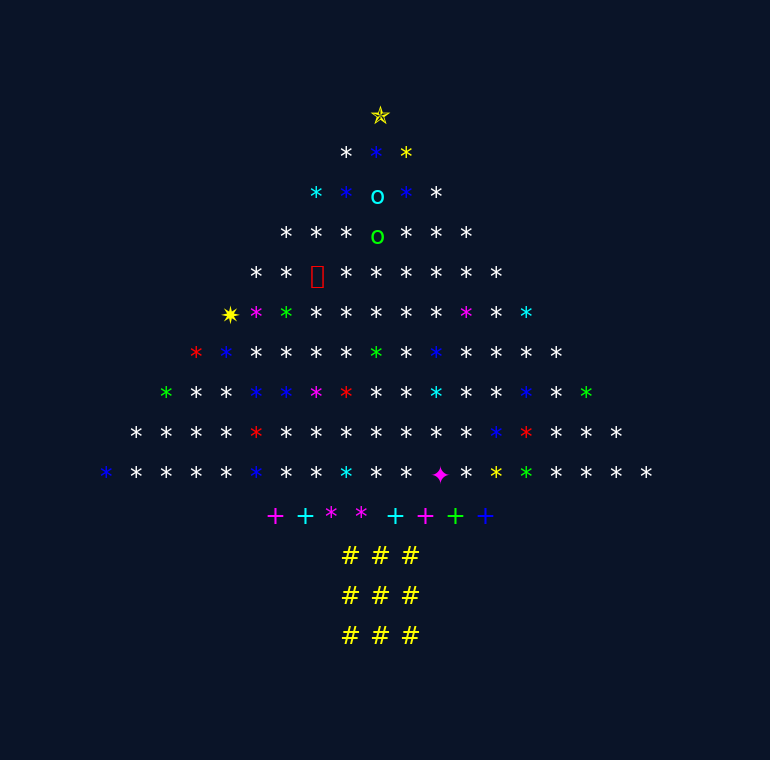
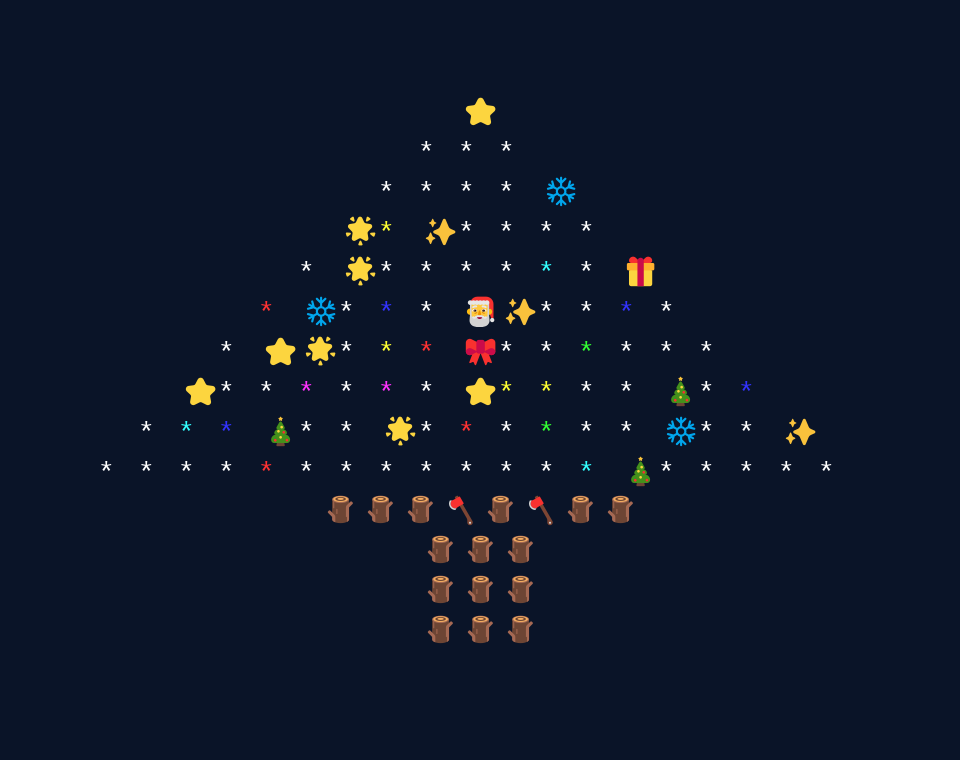
emojis
emojis

diff --git a/TreeGenerator.py b/TreeGenerator.py
@@ -2,7 +2,6 @@ import os
 import random
 import pygame
 import sys
-
 from typing import List, Tuple
 
 
@@ -125,11 +124,11 @@ def try_generate_tree():
         print(f"Error: {e}")
         print("Please enter a valid positive number for height.")
 
-    main_menu()
+    #main_menu()
 
 def generate_tree(height: int, symbol: str = '*') -> List[Tuple[str, List[Tuple[str, str]]]]:
     """
-    Generate and display a Christmas tree in the console.
+    Generate and display a Christmas tree in the console using emojis and Unicode decorations.
     Returns the tree pattern for potential PNG conversion.
     """
     # ANSI color codes
@@ -145,8 +144,8 @@ def generate_tree(height: int, symbol: str = '*') -> List[Tuple[str, List[Tuple[
     white = '\033[37m'    # White color
     reset = '\033[0m'     # Reset color code
     
-    # Non-emoji decorations (more reliable for PNG output)
-    decorations = ['*', '+', 'o', '°', '⚹', '✦', '✯', '✷']
+    # Emoji decorations
+    decorations = ['🎄', '🎁', '⭐', '✨', '🎀', '🌟', '❄', '🎅']
     
     # Store tree pattern for PNG conversion
     tree_pattern = []
@@ -161,19 +160,17 @@ def generate_tree(height: int, symbol: str = '*') -> List[Tuple[str, List[Tuple[
         
         # Handle the first row (top of tree) specially
         if i == 0:
-            color = staryellow
-            row.append(f"{color}✯{reset}")
-            pattern_row.append(('✯', color))
+            row.append(f"{staryellow}⭐{reset}")
+            pattern_row.append(('⭐', staryellow))
         else:
             # Generate other rows
             for j in range(2 * i + 1):
                 decoration_chance = random.random()
-                if decoration_chance < 0.1:  # 10% chance for decoration
-                    color = random.choice(colors)
+                if decoration_chance < 0.2:  # 20% chance for emoji decoration
                     decoration = random.choice(decorations)
-                    row.append(f"{color}{decoration}{reset}")
-                    pattern_row.append((decoration, color))
-                elif decoration_chance < 0.3:  # 20% chance for colored symbol
+                    row.append(decoration)
+                    pattern_row.append((decoration, ''))
+                elif decoration_chance < 0.4:  # 20% chance for colored symbol
                     color = random.choice(colors)
                     row.append(f"{color}{symbol}{reset}")
                     pattern_row.append((symbol, color))
@@ -185,102 +182,128 @@ def generate_tree(height: int, symbol: str = '*') -> List[Tuple[str, List[Tuple[
         print(f"{spaces}{''.join(row)}")
         tree_pattern.append((spaces, pattern_row))
     
-    # Add a simple decorative base (using stars and plus signs)
+    # Add a simple decorative base
     base_width = min(2 * (height - 1) + 1, 8)
-    base_pattern = []
-    for i in range(base_width):
-        color = random.choice(colors)
-        symbol = random.choice(['*', '+', '✦'])
-        base_pattern.append((symbol, color))
+    base_pattern = [(random.choice(['🪵', '🪓']), '') for _ in range(base_width)]
     
     # Center the base
     base_space = " " * (height - len(base_pattern)//2 - 1)
     base_row = []
-    for symbol, color in base_pattern:
-        base_row.append(f"{color}{symbol}{reset}")
+    for symbol, _ in base_pattern:
+        base_row.append(symbol)
     print(base_space + "".join(base_row))
     tree_pattern.append((base_space, base_pattern))
     
     # Add the trunk
     trunk_height = height // 3
     trunk_width = height // 3
-    brown = '\033[33m'  # Brown color for trunk
     for i in range(trunk_height):
         trunk_space = " " * (height - trunk_width // 2 - 1)
-        trunk_row = []
-        pattern_trunk = []
-        for j in range(trunk_width):
-            trunk_row.append(f"{brown}#{reset}")
-            pattern_trunk.append(('#', brown))
+        trunk_row = ['🪵'] * trunk_width
         print(trunk_space + "".join(trunk_row))
-        tree_pattern.append((trunk_space, pattern_trunk))
+        tree_pattern.append((trunk_space, [(char, '') for char in trunk_row]))
     
     return tree_pattern
 
-def save_as_png(tree_pattern: List[Tuple[str, List[Tuple[str, str]]]], height: int, filename: str = 'christmas_tree.png') -> bool:
-    """
-    Save the tree pattern as a PNG file with proper centering.
-    """
-    try:
-        from PIL import Image, ImageDraw, ImageFont
-    except ImportError:
-        print("Error: Pillow library not installed. Please install it using:")
-        print("pip install Pillow")
-        return False
 
-    # Image dimensions with padding
-    char_width = 30  # Increased for better spacing
+def save_as_png(tree_pattern, height, filename='christmas_tree.png'):
+    from PIL import Image, ImageDraw, ImageFont
+    import platform
+    
+    # Set dimensions
+    char_width = 40  # Increased for emoji visibility
     char_height = 40
-    padding = 100  # Additional padding around the tree
-    
-    # Calculate maximum tree width
-    max_tree_width = max(len(pattern_row) for _, pattern_row in tree_pattern) * char_width
-    
-    # Set image dimensions with padding
-    img_width = max_tree_width + (2 * padding)
+    padding = 100
+    img_width = (max(len(row[1]) for row in tree_pattern) * char_width) + (2 * padding)
     img_height = (len(tree_pattern) * char_height) + (2 * padding)
-    
-    # Create image with dark blue background
+
+    # Create the image with a dark background
     image = Image.new('RGB', (img_width, img_height), (10, 20, 40))
     draw = ImageDraw.Draw(image)
-    
-    # Try to load a font that supports decorative characters
+
+    # Try to find and load a system emoji font
     try:
-        font = ImageFont.truetype("/usr/share/fonts/truetype/dejavu/DejaVuSans.ttf", 25)
-    except:
-        try:
-            font = ImageFont.truetype("arial.ttf", 25)
-        except:
-            font = ImageFont.load_default()
-    
-    # Color mapping from ANSI to RGB
+        if platform.system() == 'Windows':
+            possible_fonts = [
+                "seguiemj.ttf",  # Segoe UI Emoji
+                "segoe ui emoji.ttf",
+                "C:\\Windows\\Fonts\\seguiemj.ttf"
+            ]
+        elif platform.system() == 'Darwin':  # macOS
+            possible_fonts = [
+                "/System/Library/Fonts/Apple Color Emoji.ttc",
+                "/System/Library/Fonts/AppleColorEmoji.ttf"
+            ]
+        else:  # Linux
+            possible_fonts = [
+                "/usr/share/fonts/truetype/noto/NotoColorEmoji.ttf",
+                "/usr/share/fonts/noto-emoji/NotoColorEmoji.ttf",
+                "/usr/share/fonts/google-noto/NotoColorEmoji.ttf",
+                "/usr/share/fonts/emoji/NotoColorEmoji.ttf"
+            ]
+
+        font = None
+        for font_path in possible_fonts:
+            try:
+                font = ImageFont.truetype(font_path, 30)
+                print(f"Successfully loaded emoji font: {font_path}")
+                break
+            except OSError:
+                continue
+
+        if font is None:
+            raise Exception("No emoji font found")
+
+    except Exception as e:
+        print(f"Warning - font loading issue: {e}")
+        print("Attempting to use system default font...")
+        font = ImageFont.load_default()
+
+    # Define colors
     color_map = {
-        '\033[31m': (255, 0, 0),     # Red
-        '\033[32m': (0, 255, 0),     # Green
-        '\033[33m': (255, 255, 0),   # Yellow
-        '\033[34m': (0, 0, 255),     # Blue
-        '\033[35m': (255, 0, 255),   # Purple
-        '\033[36m': (0, 255, 255),   # Cyan
-        '\033[37m': (255, 255, 255), # White
+        '\033[31m': (255, 50, 50),    # Red
+        '\033[32m': (50, 255, 50),    # Green
+        '\033[33m': (255, 255, 50),   # Yellow
+        '\033[34m': (50, 50, 255),    # Blue
+        '\033[35m': (255, 50, 255),   # Purple
+        '\033[36m': (50, 255, 255),   # Cyan
+        '\033[37m': (255, 255, 255),  # White
     }
-    
-    # Draw tree centered
-    y = padding  # Start with vertical padding
-    for spaces, row in tree_pattern:
-        # Calculate x position to center the row
-        row_width = len(row) * char_width
-        x = (img_width - row_width) // 2
-        
-        for char, color in row:
-            # Draw the character
-            draw.text((x, y), char, font=font, fill=color_map[color])
-            x += char_width
-        y += char_height
-    
-    # Save image
-    image.save(filename)
-    print(f"Tree saved as {filename}")
-    return True
+
+    # Draw tree
+    y = padding
+    try:
+        for spaces, row in tree_pattern:
+            # Center the row
+            total_row_width = len(row) * char_width
+            x = (img_width - total_row_width) // 2
+
+            for char, color in row:
+                # Preserve emoji characters
+                rgb_color = color_map.get(color, (255, 255, 255))
+                
+                # Handle both emojis and regular characters
+                try:
+                    draw.text((x, y), char, font=font, fill=rgb_color, embedded_color=True)
+                except:
+                    # Fallback for older Pillow versions
+                    draw.text((x, y), char, font=font, fill=rgb_color)
+                
+                x += char_width
+            y += char_height
+
+        # Save image
+        image.save(filename)
+        print(f"Tree successfully saved as {filename}")
+        print("Note: If emojis aren't visible, please install an emoji font:")
+        print("Windows: Segoe UI Emoji")
+        print("macOS: Apple Color Emoji")
+        print("Linux: Noto Color Emoji (package: fonts-noto-color-emoji)")
+        return True
+
+    except Exception as e:
+        print(f"Error creating image: {e}")
+        return False
 
 def main():
 
